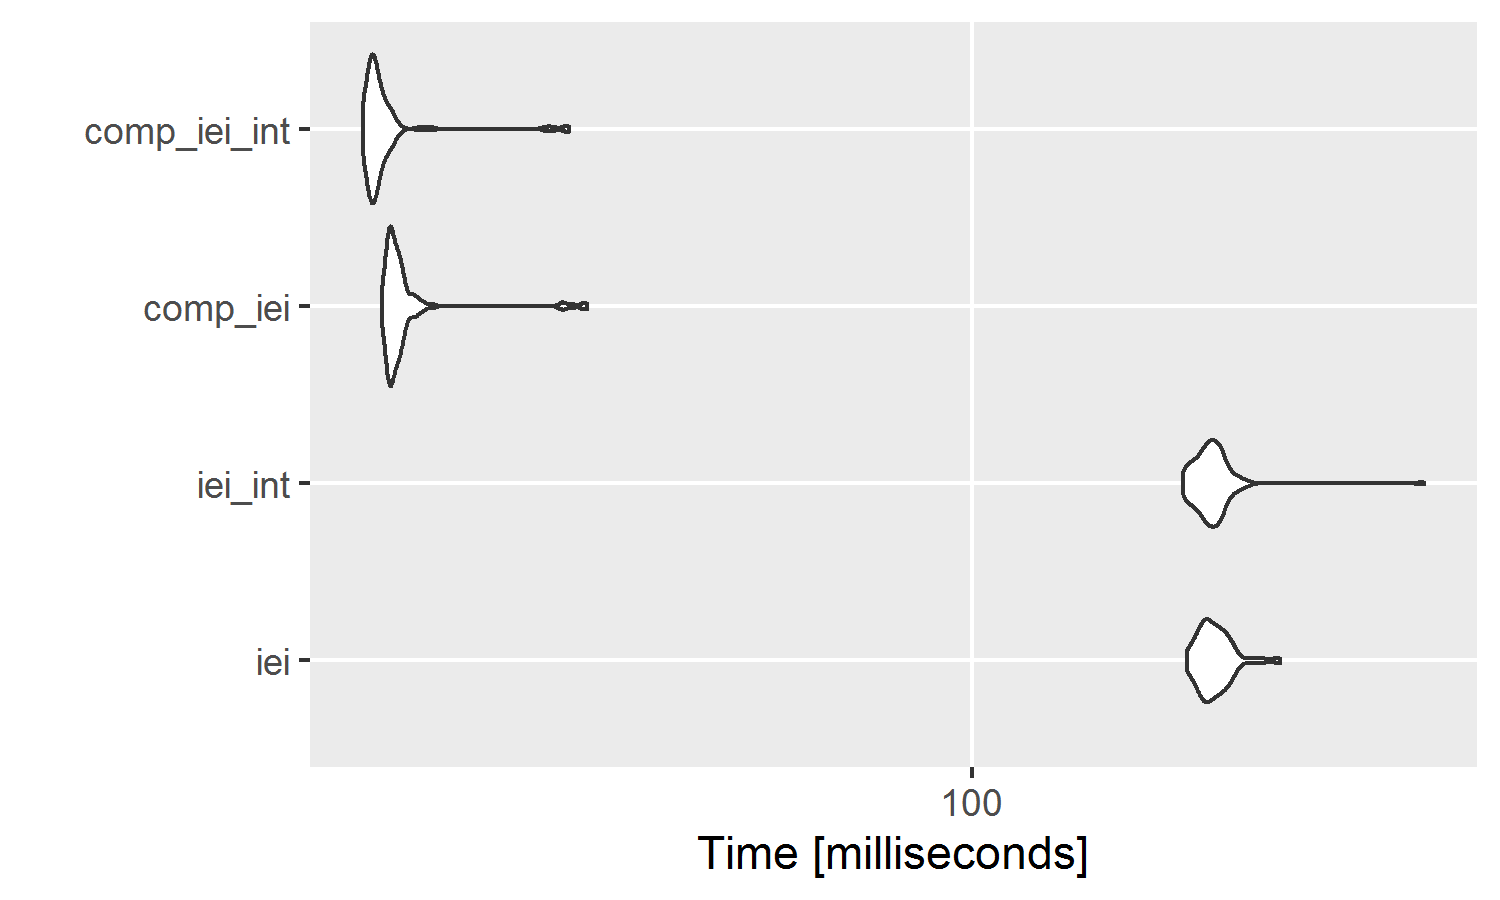
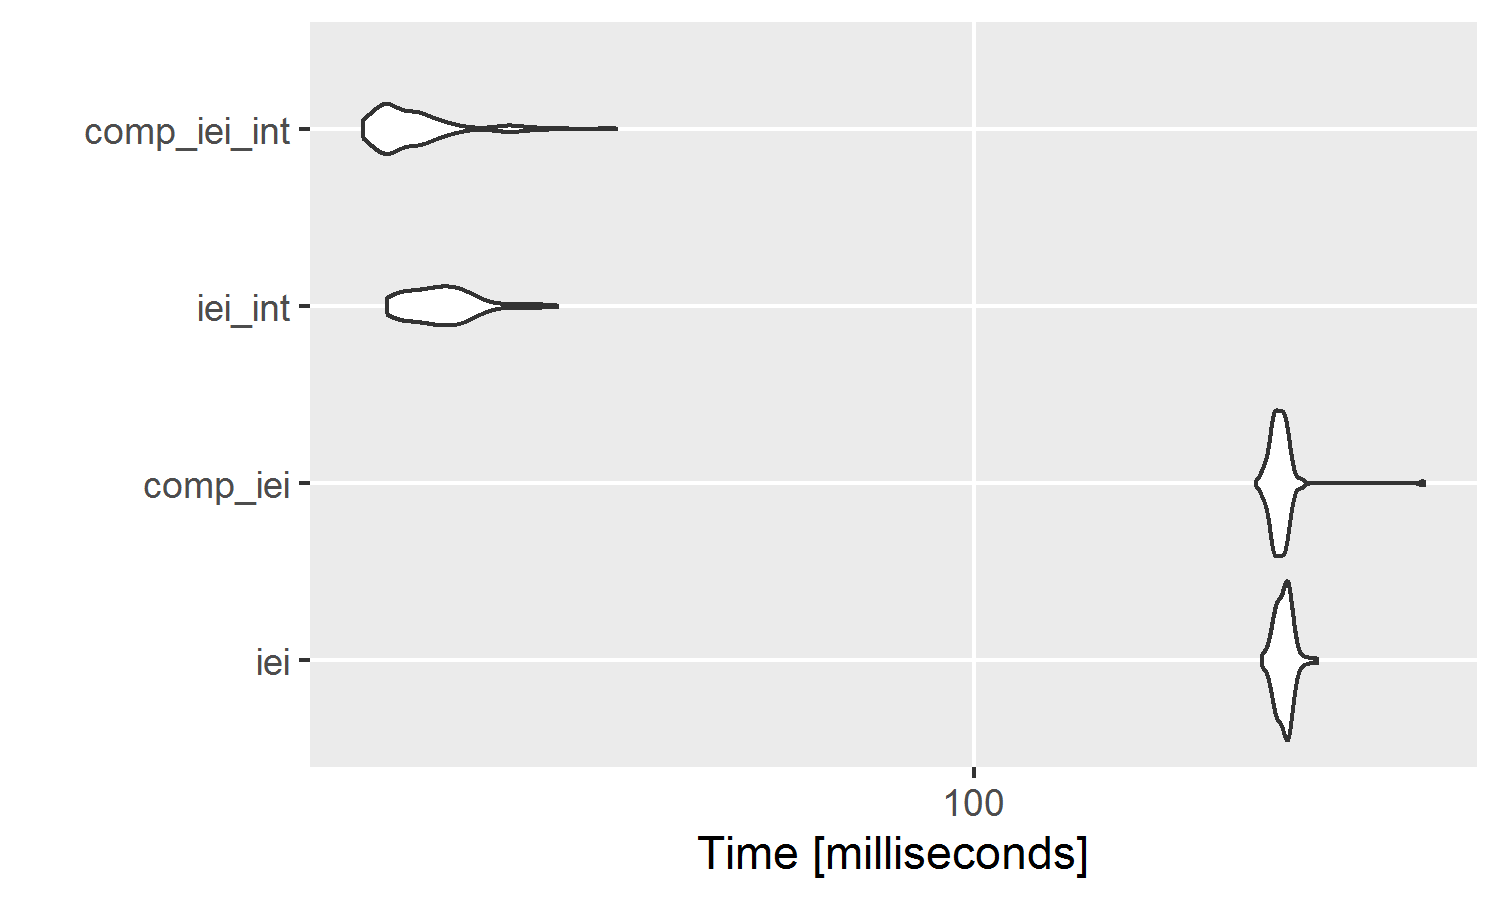
fixed minor bugs

diff --git a/README.md b/README.md
@@ -5,8 +5,6 @@ date: "28. April 2016"
 output: html_document
 ---
 
-
-
 The following introduces a small code snippet that calculates the count-bids as Grigory defined it.
 
 Grigory's definition includes the following. Given we have a data.frame of companies and dates, we want to find dates that are 60 days apart, however, the catch is, that once a date is identified, this date blocks the next 60 dates, another entry at the 61$^{st}$ day will be counted again, regardless of other dates in between. Also, the first day is always chosen. The given example shows Abigail's Jewelry Inc and the five respective events. Of these five events the first is independent as it is the first event for the company (group) and is counted as 1. With a gap of 16 days, the second date is below the threshhold and is thus marked as dependent (counted as 0). The third event is still less than 60 days from the first counted with a difference of 31 days, as is the fourth event with 32 days. The last event has a distance of 74, therefore it is regarded as independent.
@@ -137,15 +135,15 @@ if (length(x_new) != 0) {
   count_new <- numeric(0)
 }
 ```
-The `if`-clause iterates over the remaining date-values if there is another `x_new` in a recursive call (recursive because in the `if`-clause the function itself is called again on the remaining values. That means that the programm starts a new environment and sets `x`  to `x_new` and iterates lines 1 thru 12). The `else`-clause is triggered in the last round and aborts the recursive loop. Note that `numeric(0)` is basically an empty element, thus concenating the empty element with another vector only returns the other vector.
+The `if`-clause iterates over the remaining date-values if there is another `x_new` in a recursive call (recursive because in the `if`-clause the function itself is called again on the remaining values. That means that the programm starts a new environment and sets `x`  to `x_new` and iterates lines 1 thru 12). The `else`-clause is triggered in the last round and aborts the recursive loop. Note that `numeric(0)` is basically an empty element, thus concatenating the empty element with another vector only returns the other vector.
 
-### Line 12: Concenate the old and new values
+### Line 12: Concatenate the old and new values
 
 ```r
   c(count_stay, count_new)
 }
 ```
-As a last step we concenate the old stay values with the new count values (as returned by the function itself). Note that the function kind of collapses from the top environment (the innermost call to the function itself returning a vector of 1s and 0s for the last dates not independent of the former dates) to the bottom environment, concenating the returing values along with it.
+As a last step we concatenate the old stay values with the new count values (as returned by the function itself). Note that the function kind of collapses from the top environment (the innermost call to the function itself returning a vector of 1s and 0s for the last dates not independent of the former dates) to the bottom environment, concatenating the returning values along with it.
 
 ## Testing the Algorithm
 Coming back to our example of x = 2000-01-02, 2000-03-01, 2000-05-19 we expect a series of [1, 0, 1] as the difference between the first two dates is less than 60 days (returning a 1 for the first event, and a 0 for the second) and the third date is independent (i.e., more than 60 days apart). When we run the code we get
@@ -258,10 +256,17 @@ To compare the speeds of the different versions, we use the `microbenchmark`-pac
 
 ```r
 library(microbenchmark)
+```
+
+```
+## Warning: package 'microbenchmark' was built under R version 3.2.5
+```
+
+```r
 res_bench <- microbenchmark(
   iei = dt[, count := iei(date), by = "comp"],
-  iei_int = dt[, count_comp := comp_iei(date), by = "comp"],
-  comp_iei = dt[, count_int := iei(date_int), by = "comp"],
+  comp_iei = dt[, count_comp := comp_iei(date), by = "comp"],
+  iei_int = dt[, count_int := iei(date_int), by = "comp"],
   comp_iei_int = dt[, count_int_comp := comp_iei(date_int), by = "comp"],
   times = 100
 )
@@ -272,10 +277,10 @@ res_bench # prints the results as a table
 ```
 ## Unit: milliseconds
 ##          expr       min        lq      mean    median        uq       max
-##           iei 197.29162 207.03715 215.35822 212.75301 221.16470 264.49173
-##       iei_int 194.79227 205.65179 214.37802 212.27330 218.55623 416.39956
-##      comp_iei  15.50939  15.88958  16.83628  16.12319  16.51649  29.62734
-##  comp_iei_int  14.63254  14.96344  15.76969  15.17977  15.61436  27.98181
+##           iei 247.89492 259.92058 265.35705 265.85341 269.96086 294.33861
+##      comp_iei 243.26296 256.63559 262.92136 261.62981 266.40801 412.03898
+##       iei_int  15.78461  17.17733  18.80551  18.56077  19.91061  26.93471
+##  comp_iei_int  14.63382  15.67036  17.32711  16.42497  17.83817  32.39167
 ##  neval cld
 ##    100   b
 ##    100   b
@@ -290,9 +295,9 @@ autoplot(res_bench) # plots the results using ggplot2
 ![plot of chunk unnamed-chunk-20](figure/unnamed-chunk-20-1.png) 
 
 
-We see that the compiled function using the integer dates takes roughly only 7% of the time the initial function took, reducing the average of the first function from 200 milliseconds down to 15 milliseconds.
+We see that the compiled function using the integer dates takes roughly only 6% of the time the initial function took, reducing the average of the first function from 280 milliseconds down to 18 milliseconds (note, the results may vary slightly).
 
-Note that the speed is depending on the machine (I ran this code on a rather slow netbook with an Intel Celeron N3150 @ 1.60 GHz CPU, 4 GB of RAM on a 64 bit Windows 10 version). Rerunning the code on a Laptop with an Intel Core i7-3520M @ 2.90GHz with 8 GB of RAM on a 64 bit Windows 7 Professional I got results which where roughly 3 times faster at 54 milliseconds for the `iei(date)`-function and 3.8 milliseconds for the `comp_iei(date_int)`.
+Note that the speed is depending on the machine (I ran this code on a rather slow netbook with an Intel Celeron N3150 @ 1.60 GHz CPU, 4 GB of RAM on a 64 bit Windows 10 version). Rerunning the code on a Laptop with an Intel Core i7-3520M @ 2.90GHz with 8 GB of RAM on a 64 bit Windows 7 Professional I got results which where roughly 5 times faster at 54 milliseconds for the `iei(date)`-function and 3.8 milliseconds for the `comp_iei(date_int)`.
 
 
 
